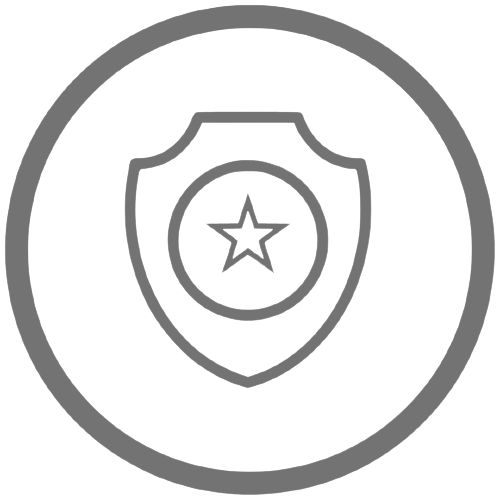
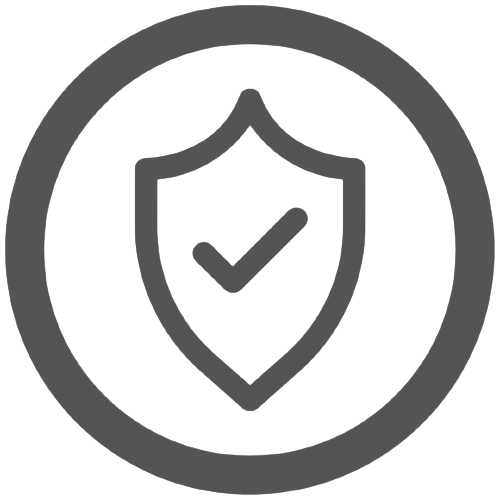
Testing for edge cases

diff --git a/frontend/src/components/safetyRatings/safety-2.js b/frontend/src/components/safetyRatings/safety-2.js
@@ -1,0 +1,53 @@
+const safety7 = {
+    "data": {
+        "id": "7831779",
+        "type": "destination",
+        "attributes": {
+            "slug": "barcelona-spain",
+            "url": "https://www.roadgoat.com/travel-guides/barcelona-spain",
+            "destination_type": "City",
+            "short_name": "Barcelona",
+            "name": "Barcelona, Spain",
+            "long_name": "Barcelona, Spain",
+            "population": 1621537,
+            "latitude": 41.38879,
+            "longitude": 2.15899,
+            "bounding_box": null,
+            "geonames_id": 3128760,
+            "walk_score_url": null,
+            "budget": {
+                "Barcelona, Spain": {
+                    "value": 6,
+                    "text": "High",
+                    "subText": "Get that wallet ready"
+                },
+                "Spain": {
+                    "value": 4,
+                    "text": "Medium",
+                    "subText": "Perfectly average"
+                }
+            },
+            "safety": {
+                "Barcelona, Spain": {
+                    "value": -2,
+                    "text": "High",
+                    "subText": "Exercise Normal Precaution"
+                },
+                "Spain": {
+                    "value": 5,
+                    "text": "Very High",
+                    "subText": "Exercise Normal Precaution"
+                }
+            },
+            "covid": {
+                "Spain": {
+                    "value": 2.25603458214194,
+                    "url": "https://www.worldometers.info/coronavirus/",
+                    "text": "Medium"
+                }
+            },
+        }
+    }
+}
+
+export default safety7;

diff --git a/frontend/src/components/safetyRatings/safety7.js b/frontend/src/components/safetyRatings/safety7.js
@@ -1,0 +1,53 @@
+const safety7 = {
+    "data": {
+        "id": "7831779",
+        "type": "destination",
+        "attributes": {
+            "slug": "barcelona-spain",
+            "url": "https://www.roadgoat.com/travel-guides/barcelona-spain",
+            "destination_type": "City",
+            "short_name": "Barcelona",
+            "name": "Barcelona, Spain",
+            "long_name": "Barcelona, Spain",
+            "population": 1621537,
+            "latitude": 41.38879,
+            "longitude": 2.15899,
+            "bounding_box": null,
+            "geonames_id": 3128760,
+            "walk_score_url": null,
+            "budget": {
+                "Barcelona, Spain": {
+                    "value": 6,
+                    "text": "High",
+                    "subText": "Get that wallet ready"
+                },
+                "Spain": {
+                    "value": 4,
+                    "text": "Medium",
+                    "subText": "Perfectly average"
+                }
+            },
+            "safety": {
+                "Barcelona, Spain": {
+                    "value": 7,
+                    "text": "High",
+                    "subText": "Exercise Normal Precaution"
+                },
+                "Spain": {
+                    "value": 5,
+                    "text": "Very High",
+                    "subText": "Exercise Normal Precaution"
+                }
+            },
+            "covid": {
+                "Spain": {
+                    "value": 2.25603458214194,
+                    "url": "https://www.worldometers.info/coronavirus/",
+                    "text": "Medium"
+                }
+            },
+        }
+    }
+}
+
+export default safety7;

diff --git a/frontend/src/components/ratings/budgetRatings.js b/frontend/src/components/ratings/budgetRatings.js
@@ -13,6 +13,7 @@ function BudgetRatings( { cityData } ) {
     <div className="ratings-div">
       <h3>Budget rating based on daily cost of lodging, food, and expenditure</h3>
       <p>The budget you need for {cityName} is {text.toLowerCase()}!</p>
+      <p>{subText}!</p>
       <div >
         <Rating
           start={0}
@@ -27,6 +28,7 @@ function BudgetRatings( { cityData } ) {
               width={40}
               height={40}
               alt=""
+              style={{ marginRight: '2px' }}
             />
           }
           emptySymbol={
@@ -35,11 +37,11 @@ function BudgetRatings( { cityData } ) {
               width={40}
               height={40}
               alt=""
+              style={{ marginRight: '2px' }}
             />
           }
         />
       </div>
-      <p>{subText}!</p>
     </div>
   );
 }

diff --git a/frontend/src/components/form/form.js b/frontend/src/components/form/form.js
@@ -2,7 +2,8 @@ import React, { useState, useEffect } from 'react';
 import './form.css';
 import PriceChart from '../priceChart/priceChart';
 import ErrorMessage from '../errorMessage/errorMessage';
-import Ratings from '../ratings/budgetRatings';
+import BudgetRatings from '../ratings/budgetRatings';
+import SafetyRatings from '../ratings/safetyRatings';
 
 
 const inbound = [
@@ -140,7 +141,8 @@ function FlightForm(clickFunction) {
         {flights && <PriceChart chartData={flights} />}
         {/* {city && <div> city data is that = {city}</div>} */}
         {error && <ErrorMessage error={error}/>}
-        {city && <Ratings cityData={city} />}
+        {city && <BudgetRatings cityData={city} />}
+        {city && <SafetyRatings cityData={city} />}
       </main>
     );
   };

diff --git a/frontend/src/components/safetyRatings/safetyRatings.js b/frontend/src/components/safetyRatings/safetyRatings.js
@@ -1,6 +1,6 @@
 import React from 'react';
 import Rating from 'react-rating';
-import './ratings.css';
+import '../ratings/ratings.css';
 
 function SafetyRatings( { cityData } ) {
   const cityName = cityData.data.attributes.name;
@@ -25,14 +25,17 @@ function SafetyRatings( { cityData } ) {
             width={40}
             height={40}
             alt=""
+            style={{ marginRight: '2px' }}
           />
         }
         emptySymbol={
           <img
-            src={'/emptySafetyIcon.png'}
+            src={'/emptyIcon.png'}
+            className='safety-empty'
             width={40}
             height={40}
             alt=""
+            style={{ marginRight: '2px' }}
           />
         }
       />

diff --git a/frontend/src/components/safetyRatings/safetyRating.cy.js b/frontend/src/components/safetyRatings/safetyRating.cy.js
@@ -1,0 +1,14 @@
+import SafetyRatings from "./safetyRatings";
+import seven from './safety7';
+import belowzero from './safety-2';
+
+describe("SafetyRatings", () => {
+  it('displays the max amount of safety icons when a number more than 5 is entered', () => {
+    cy.mount(<SafetyRatings cityData={seven}/>)
+    cy.get('.ratings-div img.safety-full').should('have.length', 5)
+  })
+  it('displays the min amount of safety icons when a number less than 0 is entered', () => {
+    cy.mount(<SafetyRatings cityData={belowzero}/>)
+    cy.get('.ratings-div img.safety-empty').should('have.length', 5)
+  })
+})

diff --git a/frontend/src/components/ratings/ratings.css b/frontend/src/components/ratings/ratings.css
@@ -8,3 +8,12 @@
   background-color: goldenrod;
   border-radius: 100%;
 }
+
+.safety-full {
+  background-color: rgba(0, 255, 0, 0.50);
+  border-radius: 50%;
+}
+
+.safety-empty {
+  border-radius: 50%;
+}
